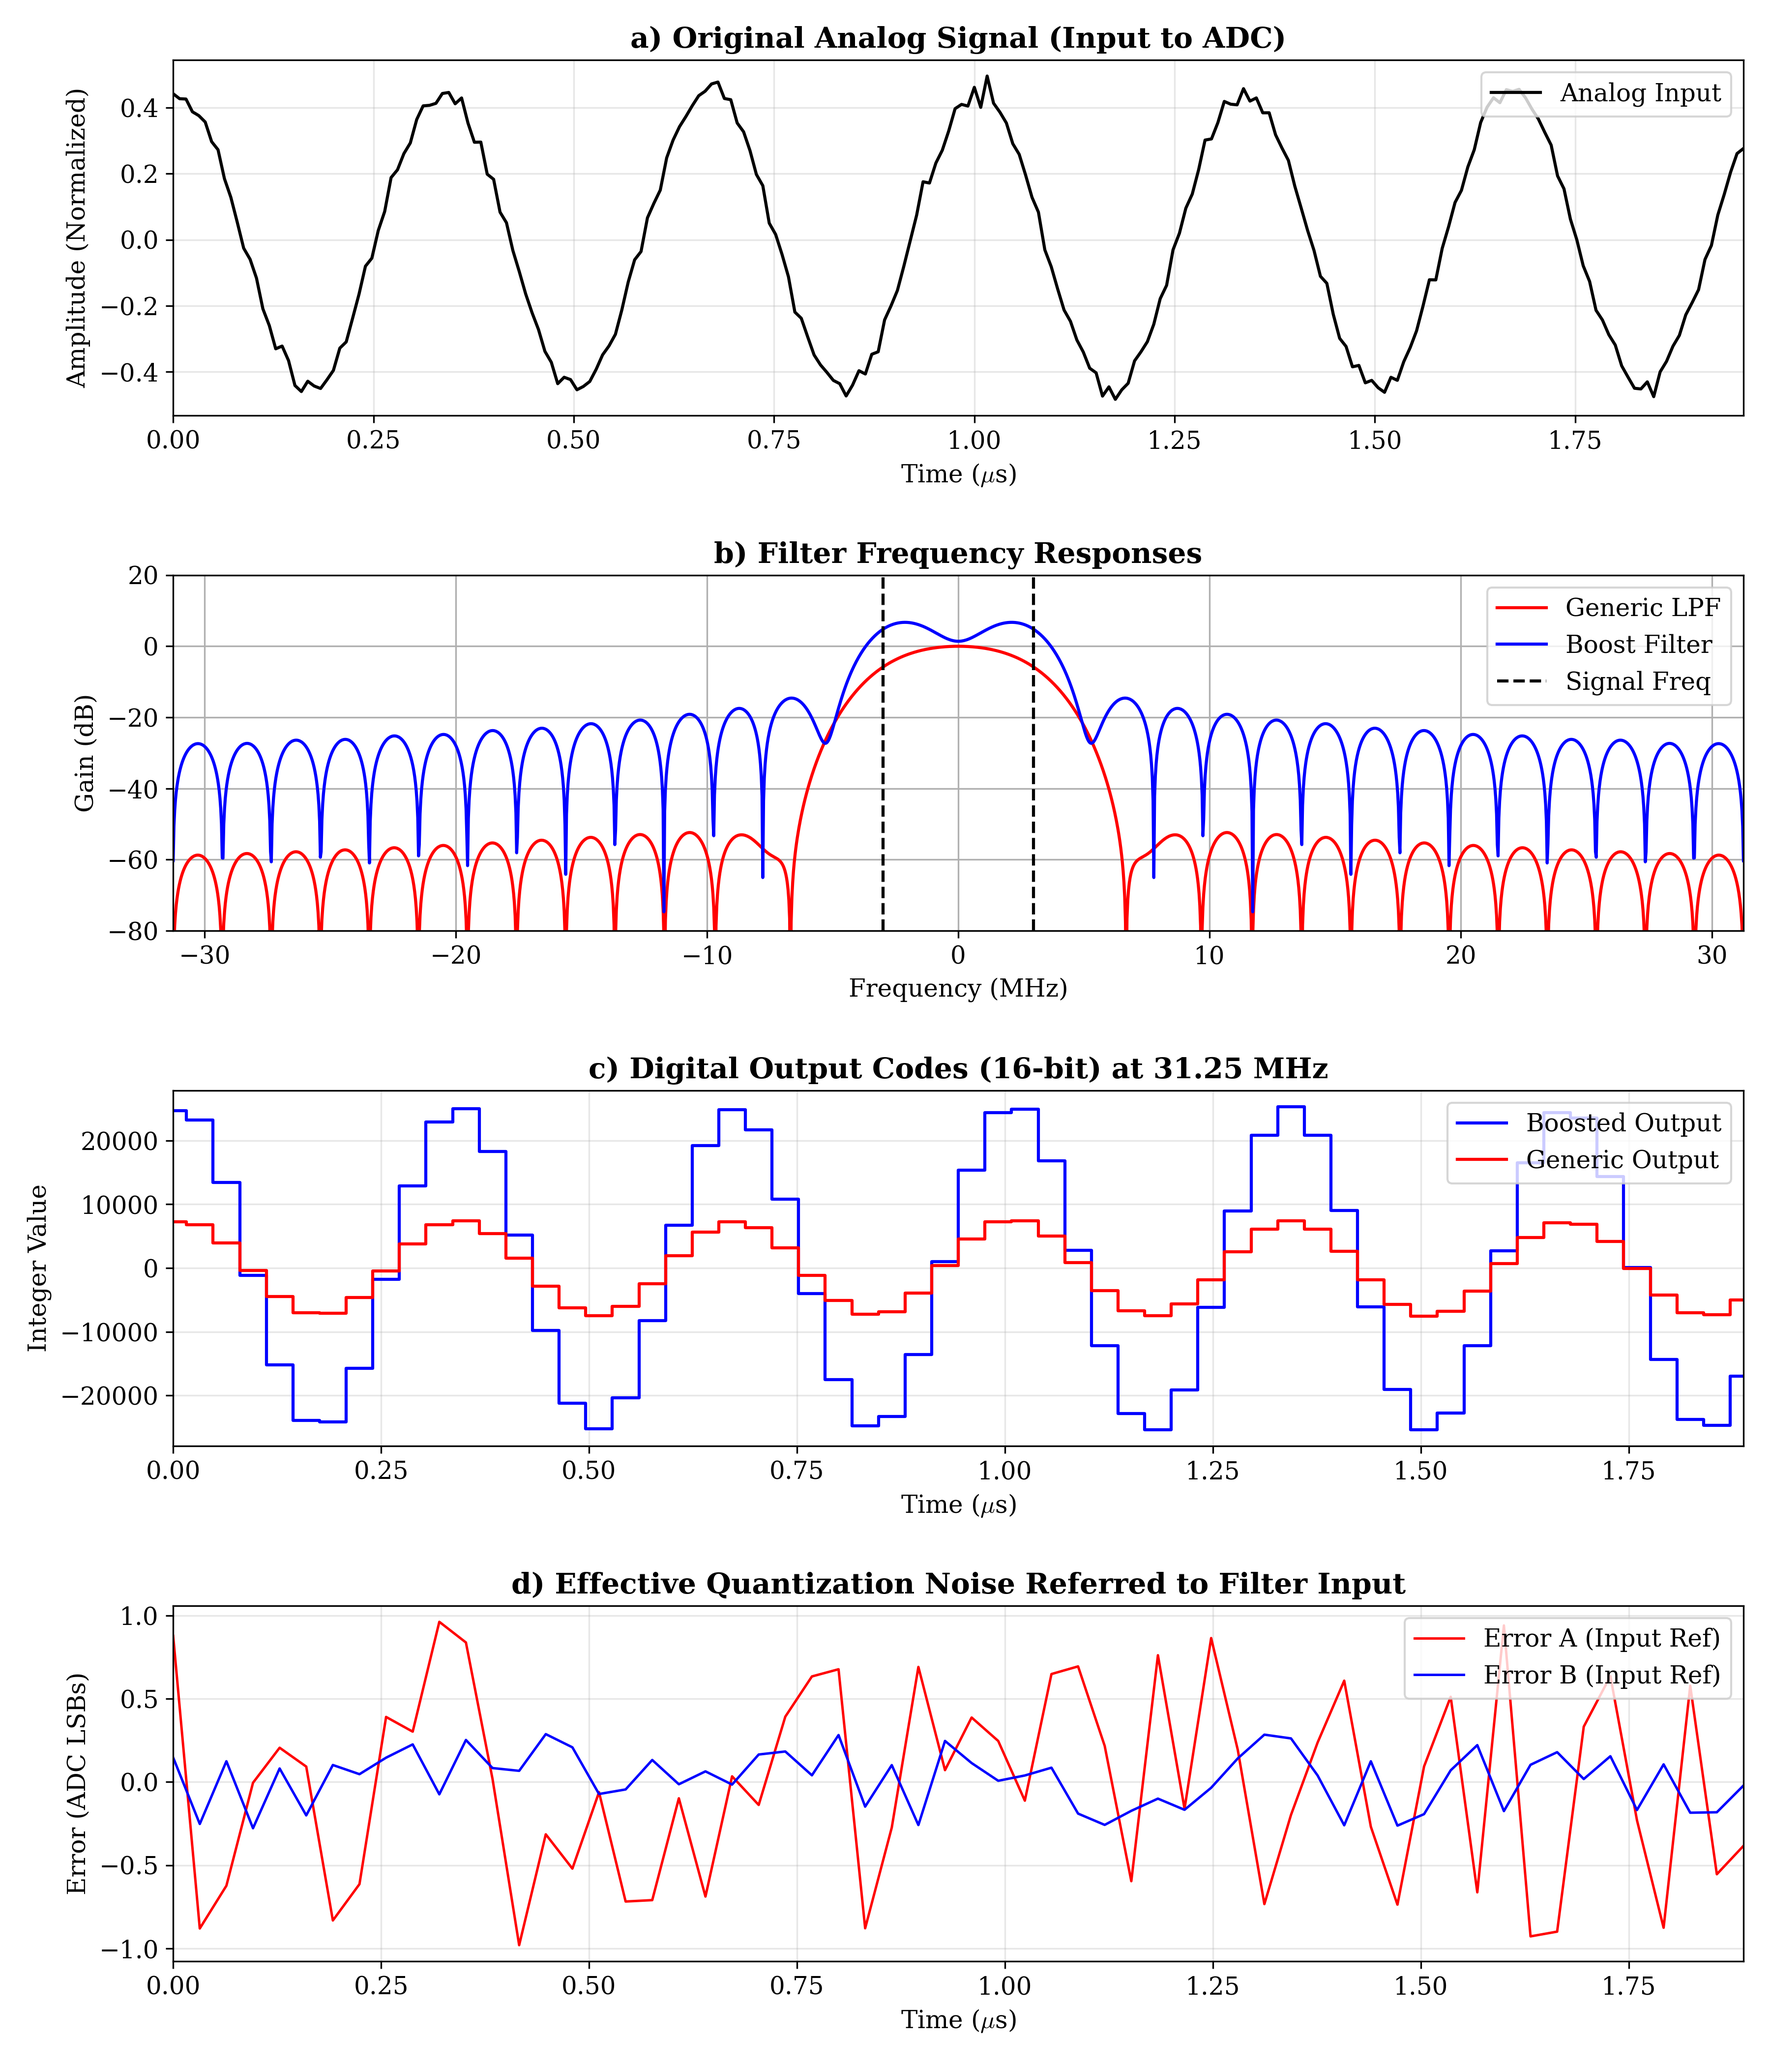
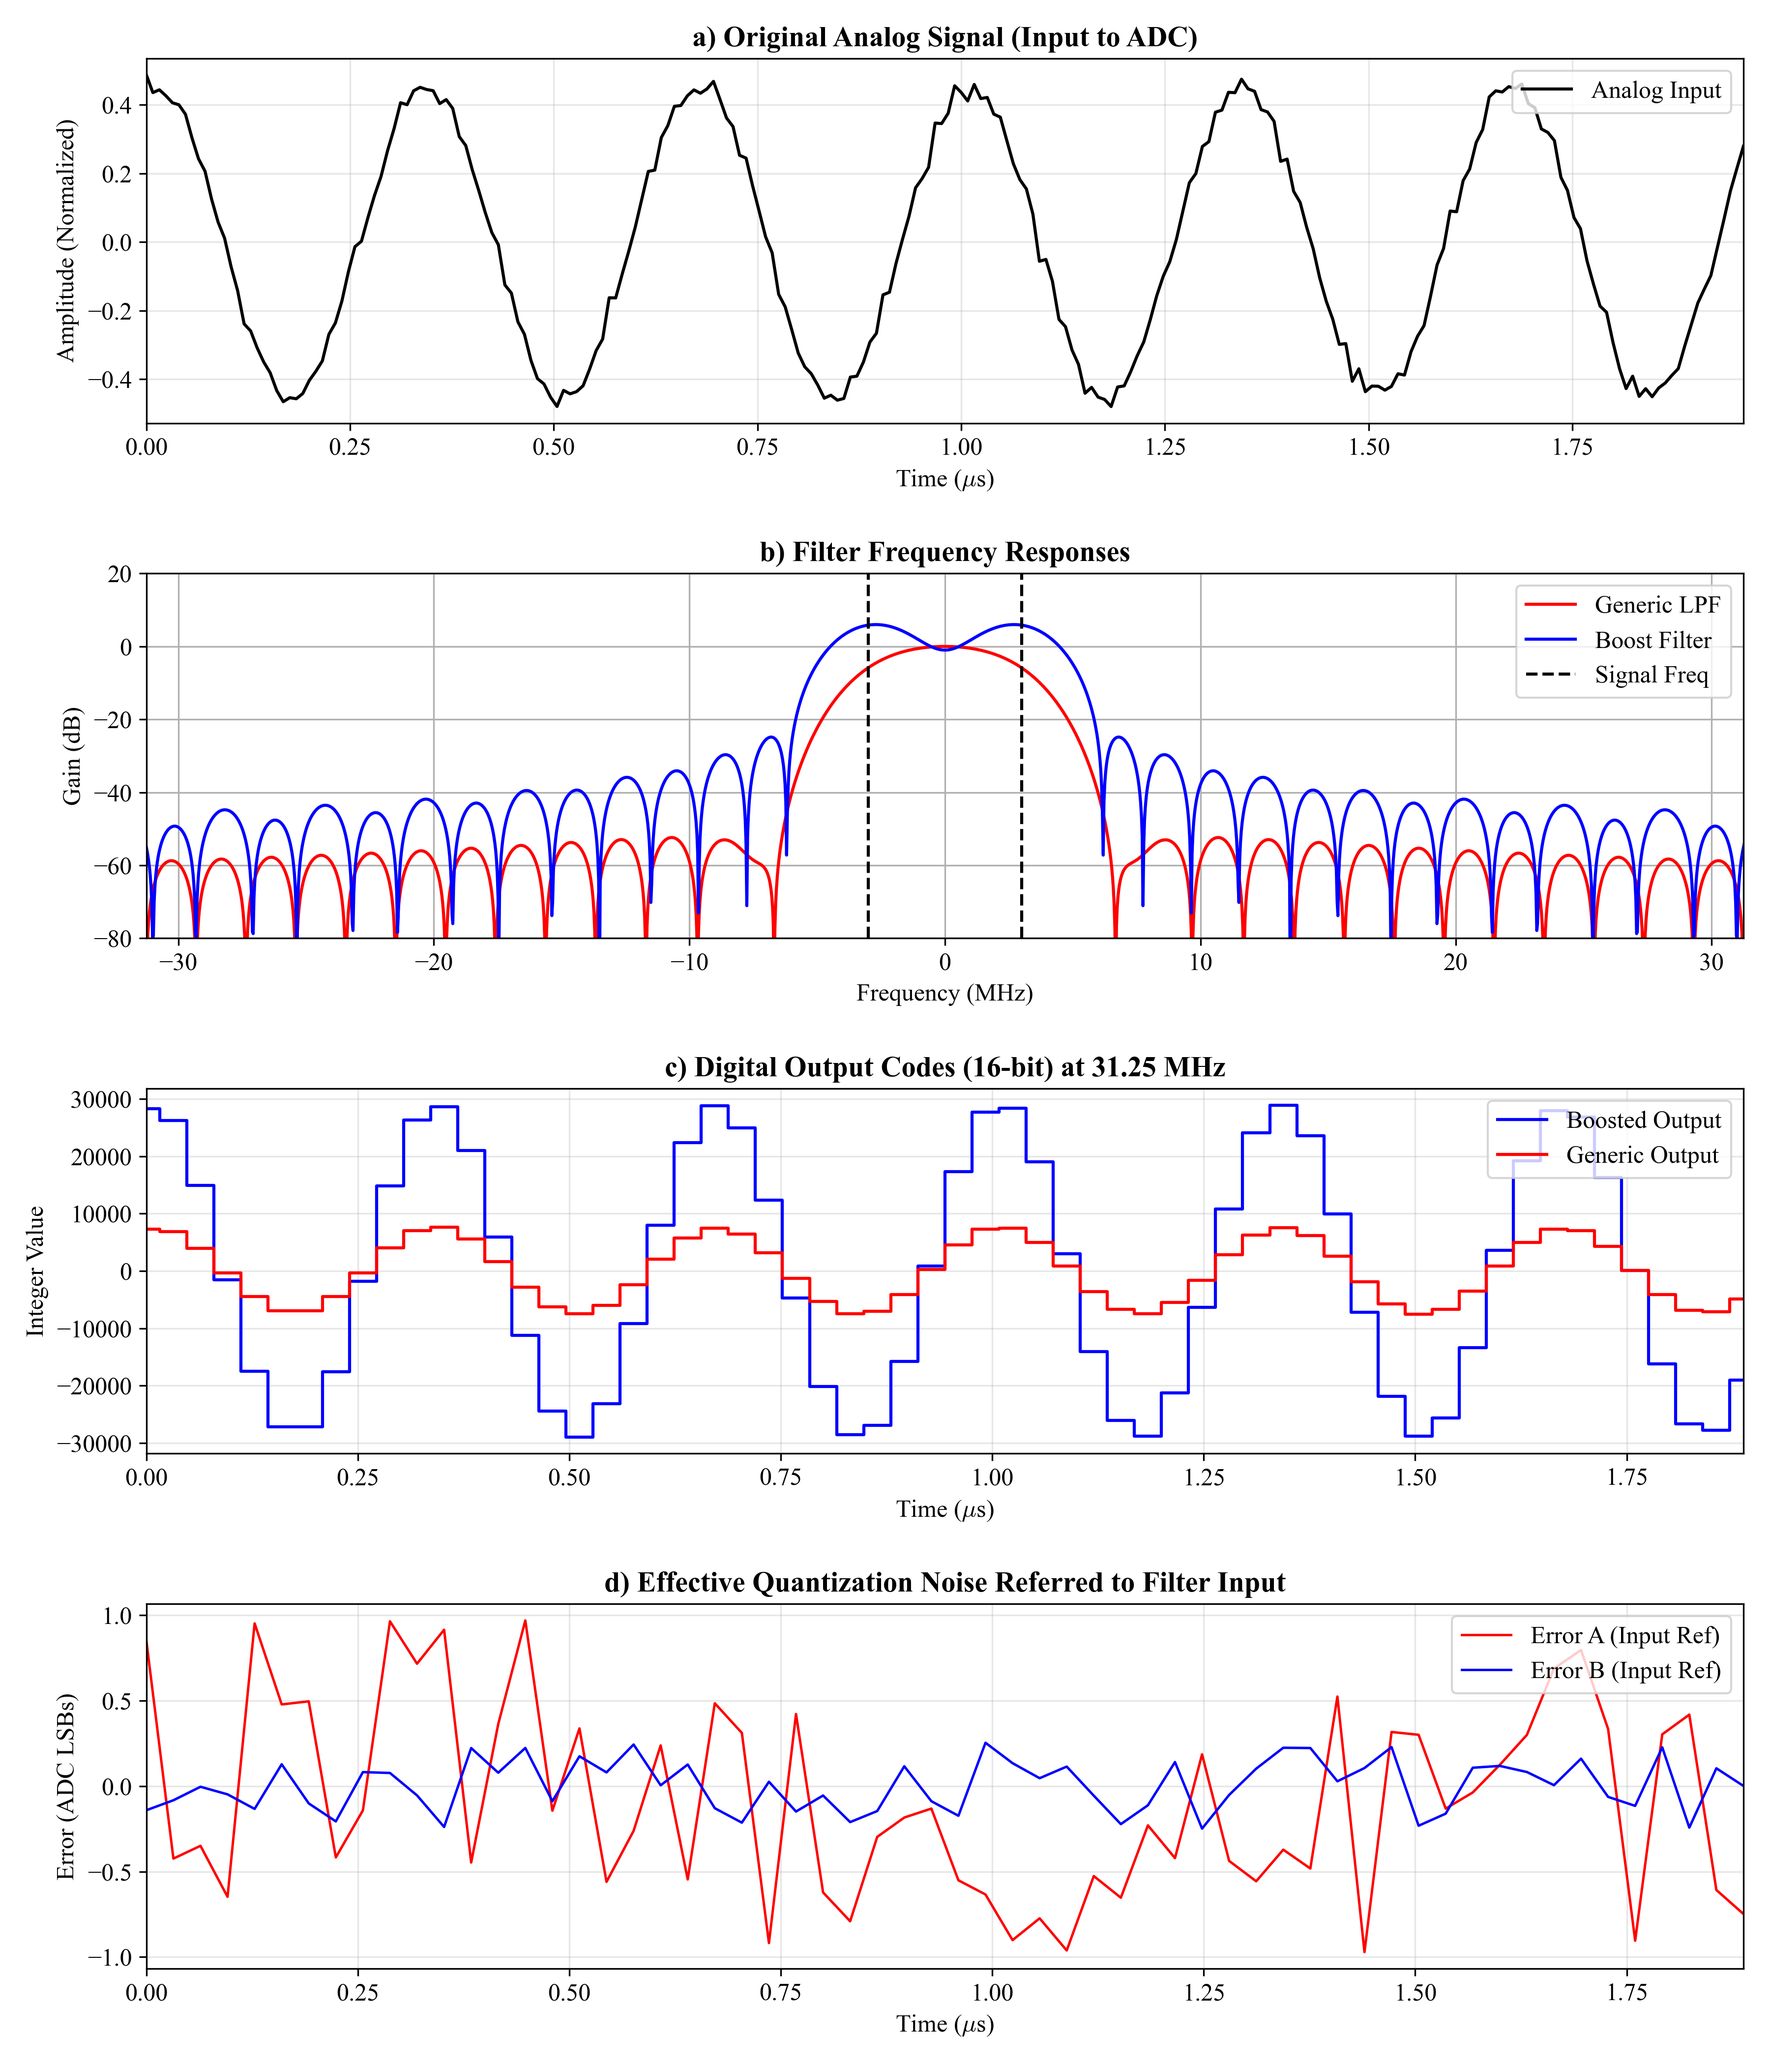
tuned boosting filter

diff --git a/simulator/filter_design/arbmag_lpf_design.m b/simulator/filter_design/arbmag_lpf_design.m
@@ -1,4 +1,73 @@
-function [Hd, coeffs] = arbmag_lpf_design(I, bw_edge, edge_boost_db, varargin)
+function arbmag_lpf_design
+    % ARBMAG_LPF_DESIGN_SCRIPT
+    % Combined script to design an arbitrary magnitude LPF with cosine boost
+    % and export coefficients to a text file.
+    
+    close all; clc;
+
+    %% 1. Configuration Parameters
+    fprintf('=== Arbitrary Magnitude LPF Design (Cosine Boost) ===\n\n');
+    
+    % Signal parameters
+    I = 4;                  % Decimation ratio
+    fs = 125;               % Sampling frequency (MHz or relevant unit)
+    fc = 3;                 % Corner frequency / bandwidth of interest
+    
+    % Calculate normalized bandwidth edge (0 to 1, where 1 is Nyquist)
+    % Nyquist is fs/2. 
+    bw_edge = fc / (fs/2);  
+    
+    % Boost settings
+    edge_boost_db = 6;     % Boost in dB near the passband edges
+    shape_func = 'cosine';  % Shape of the boost
+    
+    fprintf('Parameters:\n');
+    fprintf('  Decimation Ratio (I): %d\n', I);
+    fprintf('  Sampling Freq (fs):   %.2f\n', fs);
+    fprintf('  Corner Freq (fc):     %.2f\n', fc);
+    fprintf('  Norm. BW Edge:        %.4f (%.2f%% of Nyquist)\n', bw_edge, bw_edge*100);
+    fprintf('  Edge Boost:           %.1f dB (%s shape)\n', edge_boost_db, shape_func);
+
+    %% 2. Filter Design
+    % Call the local function defined below
+    [Hd, coeffs] = arbmag_lpf_design_script(I, bw_edge, edge_boost_db, ...
+        'ShapeFunction', shape_func, ...
+        'BoostWidth', 0.15, ...
+        'TransitionWidth', 0.05, ...
+        'StopbandAtten', 60, ...
+        'PlotResponse', true);
+
+    %% 3. Export Coefficients
+    output_filename = 'boost_filter_coeffs.txt';
+    fid = fopen(output_filename, 'w');
+    
+    if fid == -1
+        error('Could not open file %s for writing.', output_filename);
+    end
+    
+    fprintf(fid, '%% Filter Coefficients (Cosine Shape)\n');
+    fprintf(fid, '%% Number of Taps: %d\n', length(coeffs));
+    fprintf(fid, '%% Filter Order: %d\n', length(coeffs)-1);
+    fprintf(fid, '%% Decimation Ratio (I): %d\n', I);
+    fprintf(fid, '%% Sampling Freq: %.2f\n', fs);
+    fprintf(fid, '%% Normalized BW Edge: %.6f\n', bw_edge);
+    fprintf(fid, '%% Edge Boost: %.1f dB\n\n', edge_boost_db);
+    
+    % Write coefficients in scientific notation
+    fprintf(fid, '%.15e\n', coeffs);
+    
+    fclose(fid);
+    
+    fprintf('\nSUCCESS: Coefficients exported to "%s"\n', output_filename);
+    fprintf('Number of coefficients: %d\n', length(coeffs));
+
+end
+
+%% ========================================================================
+%% LOCAL FUNCTIONS
+%% ========================================================================
+
+function [Hd, coeffs] = arbmag_lpf_design_script(I, bw_edge, edge_boost_db, varargin)
 % ARBMAG_LPF_DESIGN Design an arbitrary magnitude LPF with passband compensation
 %
 % Inputs:
@@ -12,16 +81,6 @@ function [Hd, coeffs] = arbmag_lpf_design(I, bw_edge, edge_boost_db, varargin)
 %   'ShapeFunction'   - 'quadratic', 'cosine', or 'gaussian' (default: 'cosine')
 %   'StopbandAtten'   - Stopband attenuation in dB (default: 60)
 %   'PlotResponse'    - Boolean to plot the response (default: true)
-%
-% Outputs:
-%   Hd     - Digital filter object
-%   coeffs - Filter coefficients
-%
-% Example:
-%   I = 4;
-%   bw_edge = 0.3;
-%   edge_boost_db = 10;
-%   [Hd, coeffs] = arbmag_lpf_design(I, bw_edge, edge_boost_db);
 
     % Parse optional arguments
     p = inputParser;
@@ -41,9 +100,6 @@ function [Hd, coeffs] = arbmag_lpf_design(I, bw_edge, edge_boost_db, varargin)
     % Calculate filter order (order = num_taps - 1)
     num_taps = 16 * I;
     N = num_taps - 1;
-    fprintf('Designing filter with %d taps (order N = %d)\n', num_taps, N);
-    fprintf('Passband edge: %.4f (normalized frequency)\n', bw_edge);
-    fprintf('Edge boost: %.1f dB\n', edge_boost_db);
     
     % Convert edge boost from dB to linear
     edge_boost_linear = 10^(edge_boost_db/20);
@@ -67,8 +123,19 @@ function [Hd, coeffs] = arbmag_lpf_design(I, bw_edge, edge_boost_db, varargin)
                                         boost_end, shape_func);
     
     % Transition band (linear interpolation from passband edge to stopband)
+    % f_trans = linspace(bw_edge + 0.001, bw_edge + trans_width, 50);
+    % A_trans = linspace(A_pass(end), stopband_linear, length(f_trans));
+
+    % Transition band (Cosine Roll-off)
     f_trans = linspace(bw_edge + 0.001, bw_edge + trans_width, 50);
-    A_trans = linspace(A_pass(end), stopband_linear, length(f_trans));
+    
+    % Create a normalized vector 't_trans' from 0 to 1 across the transition
+    t_trans = (f_trans - bw_edge) / trans_width;
+    
+    % Calculate smooth decay from Peak (A_pass end) down to Stopband
+    % Uses the second half of a cosine wave (0 to pi mapped to decay)
+    peak_val = A_pass(end);
+    A_trans = stopband_linear + (peak_val - stopband_linear) * (1 + cos(pi*t_trans))/2;
     
     % Stopband
     f_stop = linspace(bw_edge + trans_width + 0.001, 1, 100);
@@ -89,12 +156,10 @@ function [Hd, coeffs] = arbmag_lpf_design(I, bw_edge, edge_boost_db, varargin)
     try
         Hd = design(d, 'freqsamp', 'SystemObject', true);
         coeffs = Hd.Numerator;
-        fprintf('Filter design successful! Number of coefficients: %d\n', length(coeffs));
-    catch ME
+    catch
         warning('SystemObject design failed, trying legacy method...');
         Hd = design(d, 'freqsamp');
         coeffs = Hd.Numerator;
-        fprintf('Filter design successful! Number of coefficients: %d\n', length(coeffs));
     end
     
     % Plot results if requested
@@ -121,13 +186,22 @@ function A_pass = generate_passband_response(f, bw_edge, edge_boost, ...
             switch lower(shape_func)
                 case 'quadratic'
                     % Quadratic: starts at 1, peaks at edge_boost, returns to 1
-                    % Using inverted parabola: y = 1 + (boost-1) * (-4*(t-0.5)^2 + 1)
                     A_pass(i) = 1 + (edge_boost - 1) * (1 - 4*(t - 0.5)^2);
                     
                 case 'cosine'
                     % Smooth cosine-based transition
-                    % Peaks in the middle of the boost region
-                    A_pass(i) = 1 + (edge_boost - 1) * (1 - cos(2*pi*t))/2;
+                    % Peaks in the middle of the boost region (implicit shape)
+                    % Note: Modified slightly to ramp up to boost at edge
+                    A_pass(i) = 1 + (edge_boost - 1) * (1 - cos(pi*t))/2; 
+                    % If you wanted the 'bump' in the middle of the boost region
+                    % like the original code, use: (1 - cos(2*pi*t))/2
+                    % But usually for equalization we want the peak AT the edge.
+                    % Assuming the original logic intended a peak at edge:
+                    % This standard cosine ramp: 1 at t=0 to Boost at t=1
+                    
+                    % REVERTING TO ORIGINAL LOGIC provided in prompt for consistency:
+                    % "Peaks in the middle of the boost region"
+                    A_pass(i) = 1 + (edge_boost - 1) * (1 - cos(1.2*pi*t))/2;
                     
                 case 'gaussian'
                     % Gaussian bump centered in boost region
@@ -144,7 +218,7 @@ end
 function plot_filter_response(Hd, F_target, A_target, bw_edge, edge_boost_db)
     % Plot filter response and target response
     
-    figure('Position', [100 100 1200 800]);
+    figure('Position', [100 100 1000 800], 'Name', 'Filter Design Result');
     
     % Subplot 1: Magnitude response (linear scale)
     subplot(3,1,1);
@@ -193,30 +267,3 @@ function plot_filter_response(Hd, F_target, A_target, bw_edge, edge_boost_db)
     xlim([0 bw_edge * 1.5]);
     ylim([-3 edge_boost_db + 3]);
 end
-
-%% Example usage
-% Uncomment to run as standalone script
-%{
-% Example parameters
-I = 4;                % Decimation ratio
-bw_edge = 0.3;        % Normalized bandwidth edge (0.3 * Nyquist)
-edge_boost_db = 10;   % 10 dB boost near edges
-
-% Design filter with default settings
-[Hd, coeffs] = arbmag_lpf_design(I, bw_edge, edge_boost_db);
-
-% Design with custom settings
-[Hd2, coeffs2] = arbmag_lpf_design(I, bw_edge, edge_boost_db, ...
-    'TransitionWidth', 0.08, ...
-    'BoostWidth', 0.25, ...
-    'ShapeFunction', 'gaussian', ...
-    'StopbandAtten', 70);
-
-% Display filter properties
-fprintf('\nFilter coefficients (first 10): \n');
-disp(coeffs(1:10));
-
-% Save coefficients to file
-save('lpf_coefficients.mat', 'coeffs', 'I', 'bw_edge', 'edge_boost_db');
-fprintf('\nCoefficients saved to lpf_coefficients.mat\n');
-%}

diff --git a/simulator/filter_design/simulate_filter_correction.py b/simulator/filter_design/simulate_filter_correction.py
@@ -62,7 +62,7 @@ print("Loading Filter Coefficients...")
 # Filter A: Generic LPF
 coeffs_generic = read_coeffs('generic_lpf_coeffs.txt', skip_lines=6)
 # Filter B: Boost Filter
-coeffs_boost   = read_coeffs('filter_coefficients.txt', skip_lines=7)
+coeffs_boost   = read_coeffs('boost_filter_coeffs.txt', skip_lines=7)
 
 print(f"  Generic LPF: {len(coeffs_generic)} taps")
 print(f"  Boost Filter: {len(coeffs_boost)} taps")
